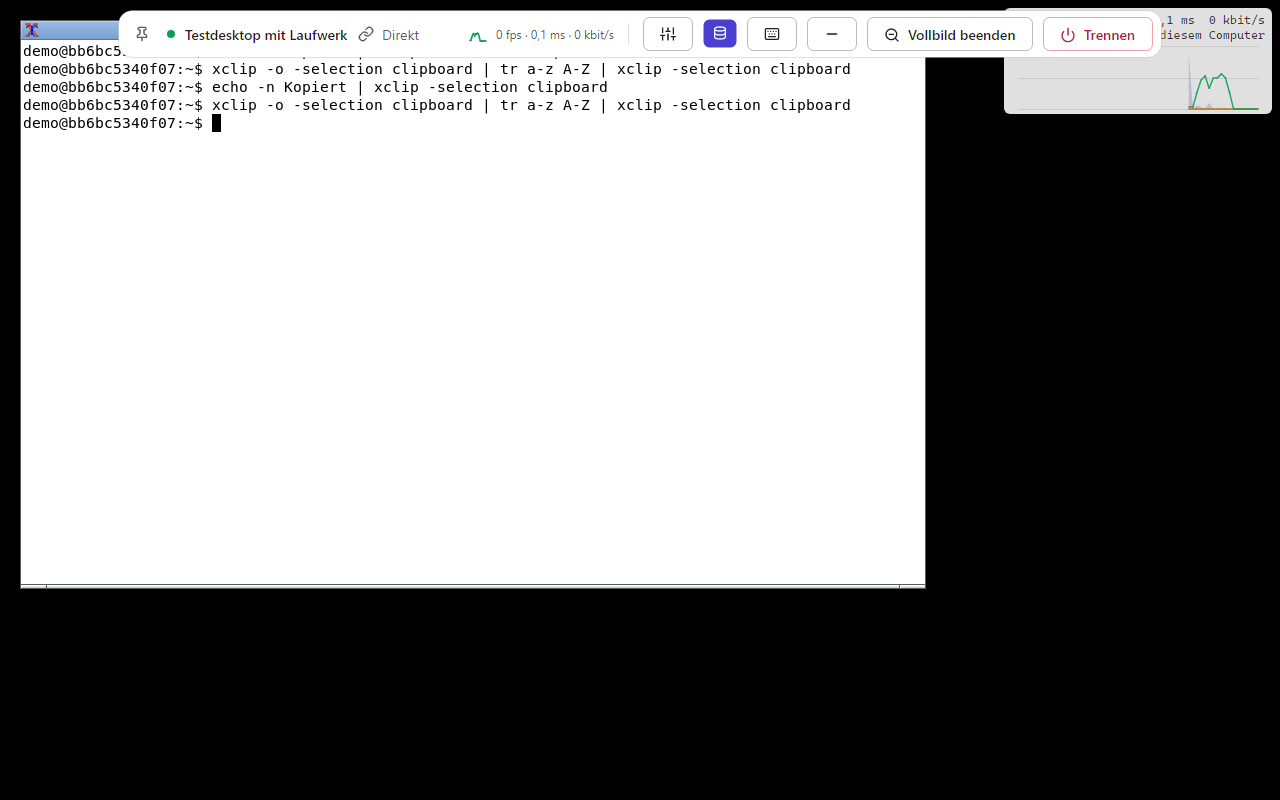
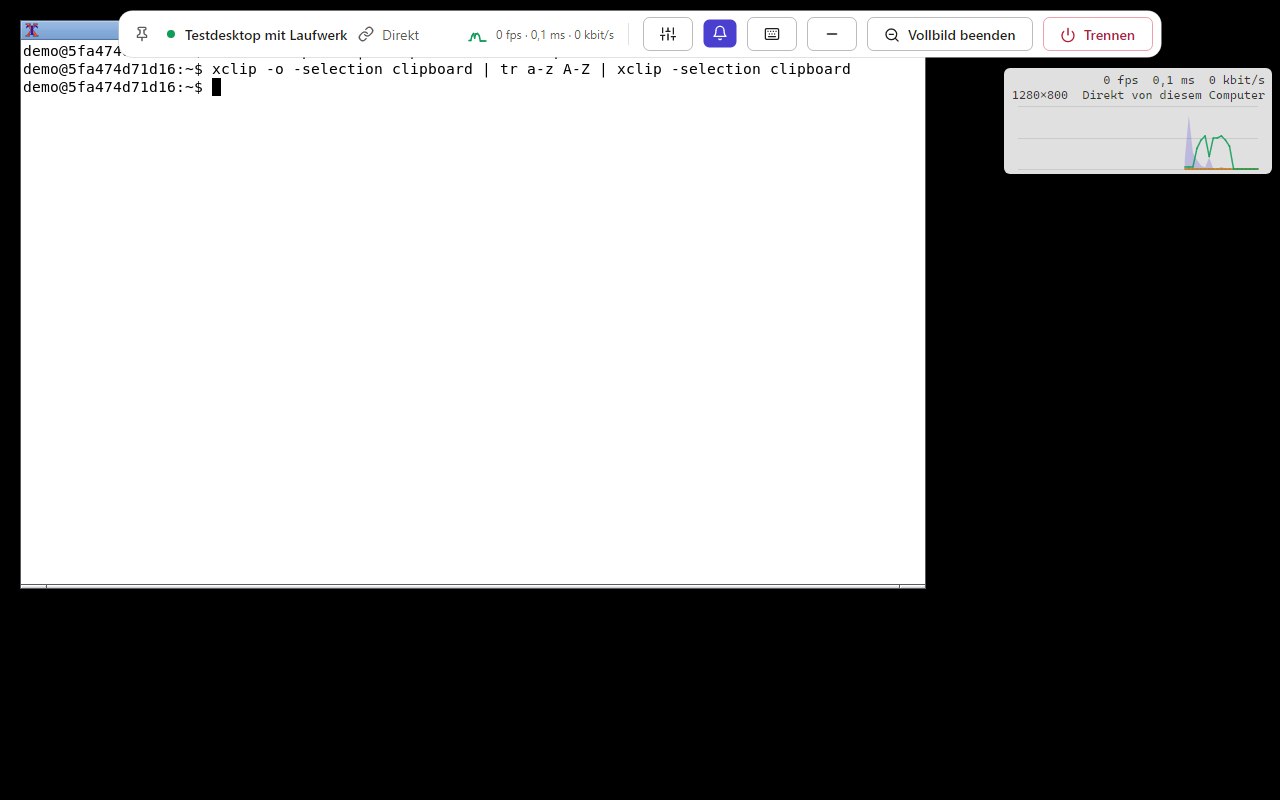
Anzeige: die Bildqualitaet als ruhige Karten mit Rahmen, die gewaehlte in der weichen Akzentfarbe mit Akzentrahmen - der Hinweis (Bilder/s) bleibt lesbar. Im Vollbild steht die Leistungsanzeige in einer oberen Ecke unter der schwebenden Leiste statt darunter versteckt. Bilder.

diff --git a/src/ThixGate/Sessions/SessionView.Display.cs b/src/ThixGate/Sessions/SessionView.Display.cs
@@ -38,7 +38,7 @@ public sealed partial class SessionView
     private readonly TextBlock _title = new() { VerticalAlignment = VerticalAlignment.Center, FontWeight = FontWeight.SemiBold, TextTrimming = TextTrimming.CharacterEllipsis };
     private readonly ComboBox _sizeChoice = new() { MinWidth = 240, ItemsSource = new[] { "An Fenster anpassen", "Wie am Server", "Feste Auflösung" } };
     private readonly ComboBox _fixedChoice = new() { MinWidth = 160, ItemsSource = FixedSizes.Select(size => size.Replace("x", " × ")).ToList() };
-    private readonly List<ToggleButton> _qualityCards = [];
+    private readonly List<QualityCard> _qualityCards = [];
     private readonly InfoBar _qualityNote = new();
     private readonly Button _reconnectNow = Ui.Button("refresh", "Jetzt neu verbinden", "MatButton.Primary");
     private readonly ToggleSwitch _soundSwitch = new() { OnContent = "", OffContent = "" };
@@ -153,23 +153,7 @@ public sealed partial class SessionView
         var cards = new UniformGrid { Columns = 2, ColumnSpacing = 8, RowSpacing = 8 };
         foreach (var (name, title, hint) in Qualities)
         {
-            var card = new ToggleButton
-            {
-                HorizontalAlignment = HorizontalAlignment.Stretch,
-                HorizontalContentAlignment = HorizontalAlignment.Left,
-                Padding = new Thickness(12, 8),
-                CornerRadius = new CornerRadius(10),
-                Content = new StackPanel
-                {
-                    Spacing = 2,
-                    Children =
-                    {
-                        new IconLabel { Icon = name switch { "fast" => "rocket", "low" => "download", "medium" => "progress-play", _ => "play" }, Text = title },
-                        Ui.Colored(hint, "Mat.TextMuted", 12),
-                    },
-                },
-            };
-            AutomationProperties.SetName(card, title);
+            var card = new QualityCard(name switch { "fast" => "rocket", "low" => "download", "medium" => "progress-play", _ => "play" }, title, hint);
             card.Click += (_, _) => ChooseQuality(name);
             _qualityCards.Add(card);
             cards.Children.Add(card);
@@ -209,6 +193,50 @@ public sealed partial class SessionView
         };
     }
 
+    /// <summary>
+    /// A choice of picture quality as a card: quiet with a thin line when not chosen; chosen, the accent's soft colour with an accent line and
+    /// the title in the accent's text colour - the hint stays readable on both (no white on accent).
+    /// </summary>
+    private sealed class QualityCard : Button
+    {
+        private readonly Border _frame = new() { Padding = new Thickness(12, 9), CornerRadius = new CornerRadius(10), BorderThickness = new Thickness(1.5) };
+        private readonly IconLabel _title;
+        private readonly TextBlock _hint;
+        private bool _selected;
+
+        public QualityCard(string icon, string title, string hint)
+        {
+            this.Themed("MatButton.Ghost");
+            Padding = new Thickness(0);
+            CornerRadius = new CornerRadius(10);
+            HorizontalAlignment = HorizontalAlignment.Stretch;
+            HorizontalContentAlignment = HorizontalAlignment.Stretch;
+            _title = new IconLabel { Icon = icon, Text = title };
+            _hint = Ui.Colored(hint, "Mat.TextMuted", 12);
+            _frame.Child = new StackPanel { Spacing = 3, Children = { _title, _hint } };
+            Content = _frame;
+            AutomationProperties.SetName(this, title);
+            Paint();
+        }
+
+        public bool IsSelected
+        {
+            get => _selected;
+            set
+            {
+                _selected = value;
+                Paint();
+            }
+        }
+
+        private void Paint()
+        {
+            _frame.Use(Border.BackgroundProperty, _selected ? "Mat.AccentSoft" : "Mat.Surface");
+            _frame.Use(Border.BorderBrushProperty, _selected ? "Mat.Accent" : "Mat.Border");
+            _title.Use(TemplatedControl.ForegroundProperty, _selected ? "Mat.AccentText" : "Mat.Text");
+        }
+    }
+
     private static TextBlock Section(string text) => Ui.Colored(text, "Mat.TextMuted", 12, FontWeight.SemiBold);
 
     /// <summary>The panel shows what the session runs with.</summary>
@@ -222,7 +250,7 @@ public sealed partial class SessionView
             _fixedChoice.SelectedIndex = Math.Max(0, Array.IndexOf(FixedSizes, _resolution));
             for (var index = 0; index < Qualities.Length; index++)
             {
-                _qualityCards[index].IsChecked = Qualities[index].Name == _quality;
+                _qualityCards[index].IsSelected = Qualities[index].Name == _quality;
             }
 
             _soundSwitch.IsChecked = _soundOn;
@@ -275,7 +303,7 @@ public sealed partial class SessionView
     {
         foreach (var (card, index) in _qualityCards.Select((card, index) => (card, index)))
         {
-            card.IsChecked = Qualities[index].Name == quality;
+            card.IsSelected = Qualities[index].Name == quality;
         }
 
         if (quality == _quality)

diff --git a/src/ThixGate/Sessions/SessionView.Status.cs b/src/ThixGate/Sessions/SessionView.Status.cs
@@ -232,6 +232,8 @@ public sealed partial class SessionView
         _perf.IsVisible = settings.PerformanceOverlay && IsScreen && _isConnected;
         _perf.HorizontalAlignment = settings.PerformanceCorner.EndsWith("right", StringComparison.Ordinal) ? HorizontalAlignment.Right : HorizontalAlignment.Left;
         _perf.VerticalAlignment = settings.PerformanceCorner.StartsWith("bottom", StringComparison.Ordinal) ? VerticalAlignment.Bottom : VerticalAlignment.Top;
+        // In full screen the bar floats at the top: numbers in a top corner stand below it.
+        _perf.Margin = new Thickness(8, _isFullScreen && _perf.VerticalAlignment == VerticalAlignment.Top ? 68 : 8, 8, 8);
         _perfText.FontSize = settings.PerformanceSize switch { "small" => 10, "large" => 12, _ => 11 };
         _perfGraph.IsVisible = settings.PerformanceSize == "large";
         _perfText.TextAlignment = _perf.HorizontalAlignment == HorizontalAlignment.Right ? TextAlignment.Right : TextAlignment.Left;
